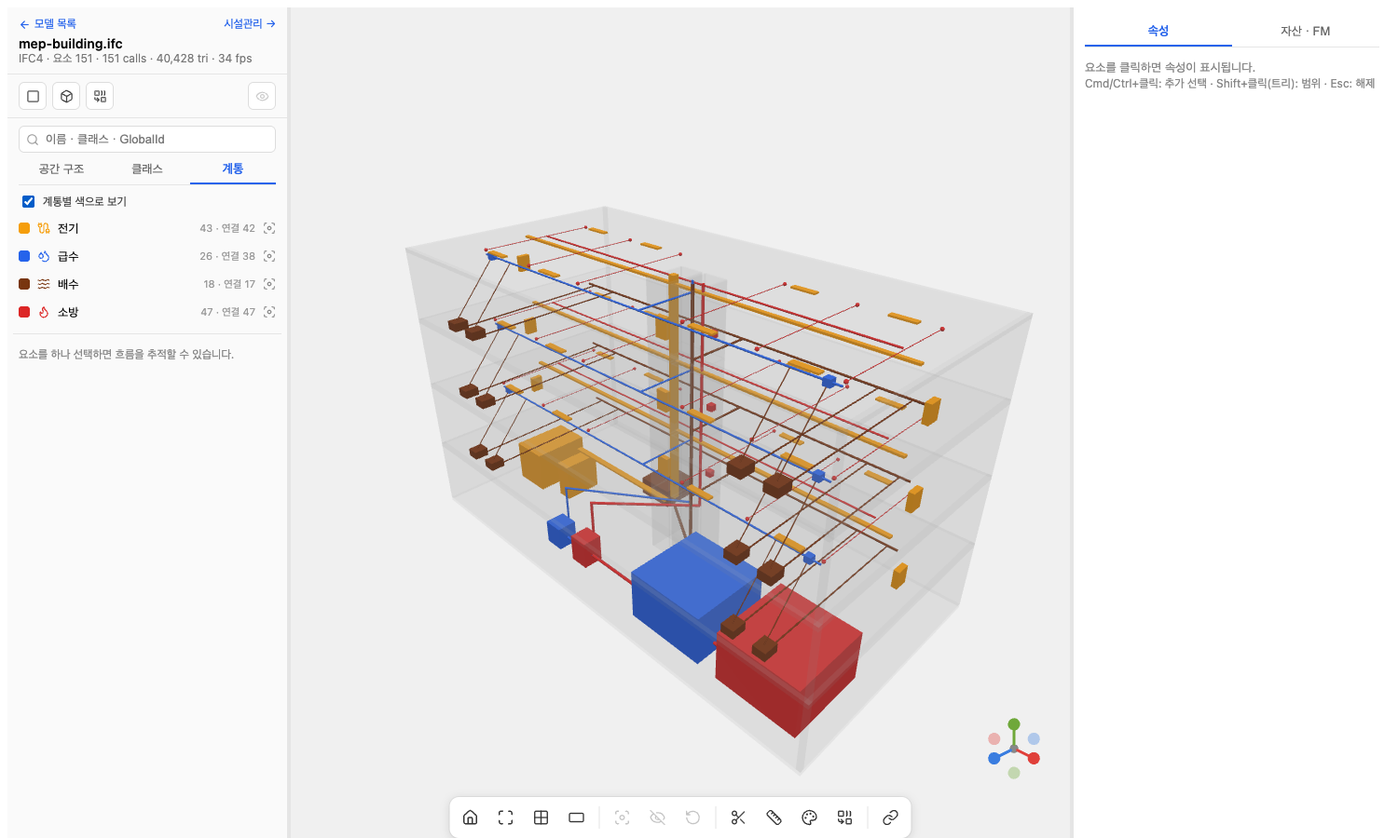
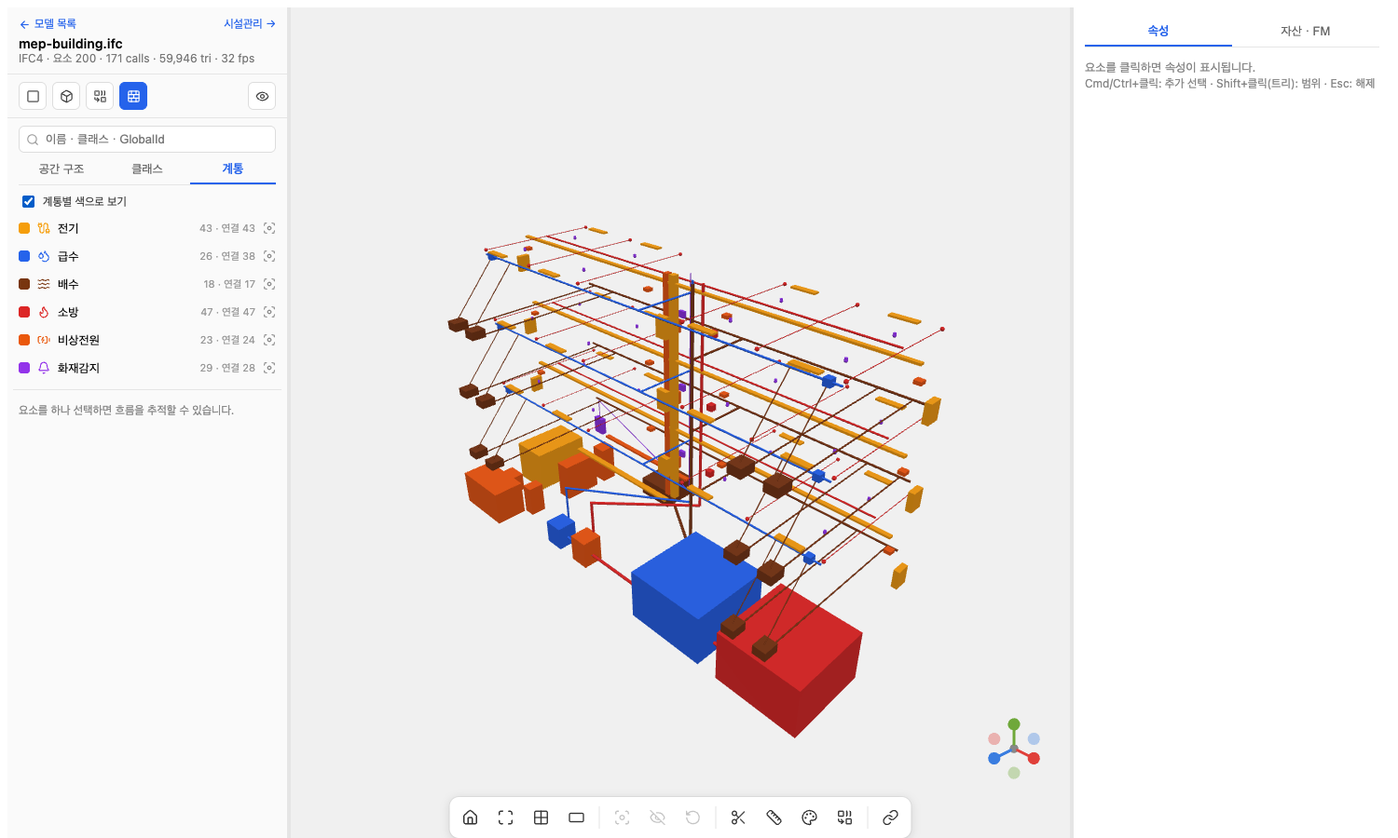
M6 확장: 화재감지 계통(감지기→중계기→수신기, SIGNAL) · 비상전원(발전기→ATS→EMDB→비상조명·소화펌프·수신기) · Pset_BimStatus 상태(ALARM/FAULT 예시), 방재실, 뷰어 구조체 숨김 토글·상태 의미색·신호 계통 라벨

diff --git a/web/src/viewer/SystemPanel.tsx b/web/src/viewer/SystemPanel.tsx
@@ -1,10 +1,11 @@
 import { useEffect, useMemo, useState } from 'react'
-import { ArrowDownToLine, ArrowUpToLine, Cable, Droplets, Flame, Focus, Waves, X, type LucideIcon } from 'lucide-react'
+import { ArrowDownToLine, ArrowUpToLine, BatteryCharging, Bell, Cable, Droplets, Flame, Focus, Waves, X, type LucideIcon } from 'lucide-react'
 import { api, type Route, type System, type SystemMember } from '../api'
 
 /** 계통별 색 (ColorPanel 팔레트와 별개로 의미색 고정) */
-export const SYSTEM_COLOR: Record<string, number> = { ELECTRICAL: 0xf59e0b, DOMESTICCOLDWATER: 0x2563eb, WASTEWATER: 0x78350f, FIREPROTECTION: 0xdc2626 }
-const SYSTEM_ICON: Record<string, LucideIcon> = { ELECTRICAL: Cable, DOMESTICCOLDWATER: Droplets, WASTEWATER: Waves, FIREPROTECTION: Flame }
+export const SYSTEM_COLOR: Record<string, number> = { ELECTRICAL: 0xf59e0b, DOMESTICCOLDWATER: 0x2563eb, WASTEWATER: 0x78350f, FIREPROTECTION: 0xdc2626, SIGNAL: 0x9333ea, 비상전원: 0xea580c, 화재감지: 0x9333ea }
+export const systemColor = (s: { name: string; predefinedType: string | null }) => SYSTEM_COLOR[s.name] ?? SYSTEM_COLOR[s.predefinedType ?? ''] ?? 0x888888
+const SYSTEM_ICON: Record<string, LucideIcon> = { ELECTRICAL: Cable, DOMESTICCOLDWATER: Droplets, WASTEWATER: Waves, FIREPROTECTION: Flame, SIGNAL: Bell, 비상전원: BatteryCharging, 화재감지: Bell }
 const hex = (n: number) => '#' + n.toString(16).padStart(6, '0')
 
 /** 좌측 "계통" 탭: 계통 목록(색·멤버 수·솔로), 선택 요소의 상류/하류 추적 */
@@ -25,6 +26,7 @@ export default function SystemPanel({ modelId, selection, members, setMembers, r
 
   const gid = selection.length === 1 ? selection[0] : undefined
   const inSystems = useMemo(() => systems.filter(s => (members.get(s.id) ?? []).some(m => m.globalId === gid)), [systems, members, gid])
+  const signal = inSystems.length > 0 && inSystems.every(s => s.predefinedType === 'SIGNAL')
   const trace = (dir: 'up' | 'down') => { if (!gid) return; setBusy(true); api(`/models/${modelId}/elements/${encodeURIComponent(gid)}/route?dir=${dir}`).then(setRoute).finally(() => setBusy(false)) }
 
   if (!systems.length) return <p style={{ color: '#888', padding: 8 }}>이 모델에는 계통(IfcDistributionSystem) 정보가 없습니다.<br /><span style={{ fontSize: 12 }}>samples/mep-building.ifc 로 확인할 수 있습니다.</span></p>
@@ -32,7 +34,7 @@ export default function SystemPanel({ modelId, selection, members, setMembers, r
     <div style={{ padding: '4px 6px' }}>
       <label style={{ display: 'flex', alignItems: 'center', gap: 6, padding: '4px 6px', fontSize: 12, color: '#444' }}>
         <input type="checkbox" checked={colorMode} onChange={e => setColorMode(e.target.checked)} /> 계통별 색으로 보기</label>
-      {systems.map(s => { const Icon = SYSTEM_ICON[s.predefinedType ?? ''] ?? Cable, c = SYSTEM_COLOR[s.predefinedType ?? ''] ?? 0x888888; return (
+      {systems.map(s => { const Icon = SYSTEM_ICON[s.name] ?? SYSTEM_ICON[s.predefinedType ?? ''] ?? Cable, c = systemColor(s); return (
         <div key={s.id} style={{ display: 'flex', alignItems: 'center', gap: 8, height: 30, padding: '0 6px', borderRadius: 5 }}>
           <span style={{ width: 12, height: 12, borderRadius: 3, background: hex(c), flexShrink: 0 }} />
           <Icon size={14} style={{ color: hex(c) }} />
@@ -46,17 +48,18 @@ export default function SystemPanel({ modelId, selection, members, setMembers, r
       {gid && <>
         <div style={{ fontSize: 12, color: '#666', padding: '0 6px 6px' }}>선택 요소 계통: {inSystems.length ? inSystems.map(s => s.name).join(', ') : '없음'}</div>
         <div style={{ display: 'flex', gap: 6, padding: '0 6px' }}>
-          <button disabled={!inSystems.length || busy} onClick={() => trace('up')} style={btn}><ArrowUpToLine size={13} /> 상류 (원천까지)</button>
-          <button disabled={!inSystems.length || busy} onClick={() => trace('down')} style={btn}><ArrowDownToLine size={13} /> 하류 (말단까지)</button>
+          {/* 신호 계통(화재감지)은 흐름이 감지기 → 수신기 라 라벨을 바꾼다 */}
+          <button disabled={!inSystems.length || busy} onClick={() => trace('up')} style={btn}><ArrowUpToLine size={13} /> {signal ? '감지기 쪽' : '상류 (원천까지)'}</button>
+          <button disabled={!inSystems.length || busy} onClick={() => trace('down')} style={btn}><ArrowDownToLine size={13} /> {signal ? '수신기까지' : '하류 (말단까지)'}</button>
         </div>
       </>}
       {route && <div style={{ marginTop: 8, padding: 8, background: '#f5f5f5', borderRadius: 8 }}>
         <div style={{ display: 'flex', alignItems: 'center', gap: 6, marginBottom: 4 }}>
-          <b style={{ flex: 1 }}>{route.direction === 'up' ? '상류 경로' : '하류 범위'} · {route.nodes.length}개</b>
+          <b style={{ flex: 1 }}>{route.direction === 'up' ? (signal ? '감지기 쪽' : '상류 경로') : (signal ? '수신기까지 경로' : '하류 범위')} · {route.nodes.length}개</b>
           <span title="경로만 보기" onClick={() => onSolo(`${route.direction === 'up' ? '상류' : '하류'} 경로`, route.nodes.map(n => n.globalId), 'route')} style={{ cursor: 'pointer', color: '#2563eb', display: 'grid', placeItems: 'center' }}><Focus size={14} /></span>
           <X size={14} style={{ cursor: 'pointer', color: '#888' }} onClick={() => setRoute(undefined)} />
         </div>
-        {route.direction === 'up'
+        {route.direction === 'up' || route.nodes.length <= 12
           ? route.nodes.map(n => <RouteRow key={n.globalId} n={n} onClick={() => onSelect([n.globalId])} />)
           : Object.entries(groupBy(route.nodes, n => n.ifcClass)).map(([cls, ns]) => <div key={cls} style={{ display: 'flex', gap: 6, fontSize: 12, padding: '2px 0', cursor: 'pointer' }} onClick={() => onSelect(ns.map(n => n.globalId))}>
               <span style={{ flex: 1 }}>{cls.replace('Ifc', '')}</span><span style={{ color: '#888' }}>{ns.length}</span></div>)}

diff --git a/web/src/viewer/Viewer.tsx b/web/src/viewer/Viewer.tsx
@@ -3,7 +3,7 @@ import type React from 'react'
 import { Group, Panel, Separator } from 'react-resizable-panels'
 import { Check, Combine, Copy, Eye, Palette, Ruler, Trash2, X, XCircle, EyeOff, Focus, Grid2x2, Home, Link, Maximize, RectangleHorizontal, RotateCcw, Scissors, type LucideIcon } from 'lucide-react'
 import { api, type Asset, type ElementDetail, type ElementRow, type Model, type Route, type SpatialNode, type SystemMember, type Viewpoint, type WorkOrder } from '../api'
-import SystemPanel, { SYSTEM_COLOR } from './SystemPanel'
+import SystemPanel, { systemColor } from './SystemPanel'
 import { StatusBadge, day } from './FmPanel'
 import FmPanel from './FmPanel'
 import { Scene3D, type Kind, type Stats, type View } from './scene'
@@ -37,7 +37,7 @@ export default function Viewer({ modelId }: { modelId: string }) {
   const [sysMembers, setSysMembers] = useState<Map<number, SystemMember[]>>(new Map())
   const [sysColor, setSysColor] = useState(false)     // 계통별 색
   const [route, setRoute] = useState<Route>()          // 추적 결과
-  const [systemsMeta, setSystemsMeta] = useState<{ id: number; predefinedType: string | null }[]>([])
+  const [systemsMeta, setSystemsMeta] = useState<{ id: number; name: string; predefinedType: string | null }[]>([])
   useEffect(() => { api(`/models/${modelId}/systems`).then(setSystemsMeta).catch(() => setSystemsMeta([])) }, [modelId])
   // 계통별 색: 멤버 → 계통 색. 경로 추적 중이면 경로만 진하게, 나머지 회색 (setColors 의 기본 회색)
   useEffect(() => {
@@ -45,7 +45,7 @@ export default function Viewer({ modelId }: { modelId: string }) {
     if (route) { const m = new Map<string, number>(); for (const n of route.nodes) m.set(n.globalId, n.depth === 0 ? 0xffaa00 : route.direction === 'up' ? 0x2563eb : 0x16a34a); s.setColors(m, true); return }
     if (!sysColor || colorMode) { if (!colorMode) s.setColors(undefined); return }
     const m = new Map<string, number>()
-    for (const sm of systemsMeta) for (const e of sysMembers.get(sm.id) ?? []) m.set(e.globalId, SYSTEM_COLOR[sm.predefinedType ?? ''] ?? 0x888888)
+    for (const sm of systemsMeta) for (const e of sysMembers.get(sm.id) ?? []) m.set(e.globalId, systemColor(sm))
     s.setColors(m, true)   // 구조체는 반투명 — 계통이 건물 안에서 보이게
   }, [sysColor, sysMembers, systemsMeta, route, colorMode, bounds])
   const [menu, setMenu] = useState<{ x: number; y: number }>()

diff --git a/web/src/viewer/LeftPanel.tsx b/web/src/viewer/LeftPanel.tsx
@@ -1,6 +1,6 @@
 import { useMemo, useState, type ReactNode } from 'react'
 import type React from 'react'
-import { ArrowLeft, Box, Building2, ChevronDown, ChevronRight, Combine, DoorOpen, Eye, EyeOff, Focus, Layers, LayoutGrid, MapPin, Search, Sofa, Square, Tag, Wind, type LucideIcon } from 'lucide-react'
+import { ArrowLeft, Box, Building2, BrickWall, ChevronDown, ChevronRight, Combine, DoorOpen, Eye, EyeOff, Focus, Layers, LayoutGrid, MapPin, Search, Sofa, Square, Tag, Wind, type LucideIcon } from 'lucide-react'
 import type { ElementRow, Model, SpatialNode } from '../api'
 import type { Stats } from './scene'
 
@@ -12,6 +12,7 @@ export type SelectMode = 'set' | 'toggle' | 'range'
 export type Hidden = { nodes: Set<number>; classes: Set<string>; gids: Set<string>; solo?: { key: string; label: string; gids: Set<string> } }
 export type Opts = { openings: boolean; spaces: boolean; merged: boolean }
 
+const STRUCT = ['IfcWall', 'IfcWallStandardCase', 'IfcSlab', 'IfcRoof', 'IfcCovering', 'IfcCurtainWall']   // 구조체 숨김 토글 대상
 const CLASS_ICON: [RegExp, LucideIcon][] = [[/Door/, DoorOpen], [/Window/, LayoutGrid], [/Furnish|Furniture/, Sofa], [/Wall/, Square], [/Slab|Roof|Covering/, Layers], [/Flow|Duct|Pipe|Terminal/, Wind], [/Site/, MapPin], [/Building$/, Building2], [/Storey/, Layers], [/Space/, Box]]
 export const classIcon = (c: string) => CLASS_ICON.find(([re]) => re.test(c))?.[1] ?? Tag
 
@@ -110,6 +111,7 @@ export default function LeftPanel({ model, stats, spatial, elements, hidden, set
         <Toggle icon={Square} label="Opening (창·문 구멍)" on={opts.openings} onClick={() => setOpts(o => ({ ...o, openings: !o.openings }))} />
         <Toggle icon={Box} label="Space 반투명" on={opts.spaces} onClick={() => setOpts(o => ({ ...o, spaces: !o.spaces }))} />
         <Toggle icon={Combine} label="재질별 병합" on={opts.merged} onClick={() => setOpts(o => ({ ...o, merged: !o.merged }))} />
+        <Toggle icon={BrickWall} label="구조체 숨김 (벽·슬래브·지붕)" on={STRUCT.every(c => hidden.classes.has(c))} onClick={() => { const h = clone(); const on = STRUCT.every(c => h.classes.has(c)); for (const c of STRUCT) on ? h.classes.delete(c) : h.classes.add(c); setHidden(h) }} />
         <span style={{ flex: 1 }} />
         <Toggle icon={Eye} label="숨긴 것 모두 표시" on={false} disabled={!anyHidden} onClick={allVisible} />
       </div>

diff --git a/web/src/viewer/ColorPanel.tsx b/web/src/viewer/ColorPanel.tsx
@@ -6,6 +6,8 @@ import { api, type ElementRow, type SpatialNode } from '../api'
 export const PALETTE = [0x4e79a7, 0xf28e2b, 0xe15759, 0x76b7b2, 0x59a14f, 0xedc948, 0xb07aa1, 0xff9da7, 0x9c755f, 0xbab0ac, 0x1b9e77, 0x7570b3]
 const hex = (n: number) => '#' + n.toString(16).padStart(6, '0')
 const BUILTIN = ['ifcClass', 'storey']
+/** 상태값은 의미색 고정 (팔레트 순번이 아니라) */
+const STATUS_COLOR: Record<string, number> = { NORMAL: 0x16a34a, OK: 0x16a34a, STANDBY: 0x6b7280, ALARM: 0xdc2626, FAULT: 0xf59e0b, TROUBLE: 0xf59e0b, OFF: 0x9ca3af, UTILITY: 0x2563eb, GENERATOR: 0xea580c }
 
 export type Legend = { value: string; color: number; gids: string[] }[]
 
@@ -34,7 +36,7 @@ export default function ColorPanel({ modelId, elements, spatial, onChange, onSol
     if (!values) return []
     const groups = new Map<string, string[]>()
     for (const v of values) (groups.get(v.value) ?? groups.set(v.value, []).get(v.value)!).push(v.globalId)
-    return [...groups].sort((a, b) => b[1].length - a[1].length).map(([value, gids], i) => ({ value, gids, color: PALETTE[i % PALETTE.length] }))
+    return [...groups].sort((a, b) => b[1].length - a[1].length).map(([value, gids], i) => ({ value, gids, color: STATUS_COLOR[value.toUpperCase()] ?? PALETTE[i % PALETTE.length] }))
   }, [values])
   useEffect(() => {
     const m = new Map<string, number>(); for (const l of legend) for (const g of l.gids) m.set(g, l.color)

diff --git a/samples/gen/gen_mep.py b/samples/gen/gen_mep.py
@@ -69,6 +69,7 @@ def system(name, ptype):
     systems[name] = s
     return s
 S_EL, S_WS, S_WW, S_FP = system("전기", "ELECTRICAL"), system("급수", "DOMESTICCOLDWATER"), system("배수", "WASTEWATER"), system("소방", "FIREPROTECTION")
+S_EM, S_FA = system("비상전원", "ELECTRICAL"), system("화재감지", "SIGNAL")
 
 def link(up, down, sysname):
     """상류 → 하류 흐름 연결 + 양쪽 계통 소속"""
@@ -80,7 +81,7 @@ def link(up, down, sysname):
 ST = {"slab": style("slab", (0.75, 0.75, 0.75)), "wall": style("wall", (0.85, 0.85, 0.82), 0.35), "space": style("space", (0.6, 0.75, 1.0), 0.15),
       "el": style("electrical", (0.95, 0.65, 0.1)), "tray": style("tray", (0.8, 0.5, 0.1)), "light": style("light", (1.0, 0.95, 0.6)),
       "ws": style("water", (0.2, 0.5, 0.95)), "ww": style("waste", (0.45, 0.35, 0.25)), "fp": style("fire", (0.9, 0.2, 0.2)), "tank": style("tank", (0.3, 0.6, 0.8), 0.6),
-      "shaft": style("shaft", (0.5, 0.5, 0.5), 0.3)}
+      "shaft": style("shaft", (0.5, 0.5, 0.5), 0.3), "em": style("emergency", (0.85, 0.3, 0.05)), "fa": style("firealarm", (0.6, 0.2, 0.7)), "gen": style("generator", (0.4, 0.4, 0.45))}
 
 # ---------- 구조: 층·슬래브·외벽·샤프트·구역 ----------
 storeys, spaces = {}, {}
@@ -92,7 +93,7 @@ for name, z in FLOORS:
         make("IfcWall", f"{name} 외벽", [box(x, y, z, w, d, H)], st, ST["wall"])
     for label, (x, y, w, d) in (("EPS", EPS), ("PS", PS)):
         make("IfcWall", f"{name} {label} 샤프트", [box(x, y, z, w, 0.1, H), box(x, y + d, z, w, 0.1, H), box(x, y, z, 0.1, d, H), box(x + w, y, z, 0.1, d, H)], st, ST["shaft"])
-    zones = [("변전실", 0, 0, 6, D), ("펌프실", 6, 0, 5, D), ("수조실", 13.6, 0, W - 13.6, D)] if name == "B1" else [("A", 0, 0, 11, D), ("B", 13.6, 0, W - 13.6, D)]
+    zones = [("변전실", 0, 0, 6, 8), ("방재실", 0, 8, 6, D - 8), ("펌프실", 6, 0, 5, D), ("수조실", 13.6, 0, W - 13.6, D)] if name == "B1" else [("A", 0, 0, 11, D), ("B", 13.6, 0, W - 13.6, D)]
     for zname, x, y, w, d in zones:
         sp = api.root.create_entity(f, ifc_class="IfcSpace", name=f"{name}-{zname}")
         api.geometry.assign_representation(f, product=sp, representation=rep([box(x + 0.2, y + 0.2, z, w - 0.4, d - 0.4, H - 0.3)], ST["space"]))
@@ -112,6 +113,15 @@ link(WT, WP, "급수")
 FT = make("IfcTank", "FT-1 소화수조 40t", [box(19, 1, zb, 4, 4, 2.5)], spaces["B1-수조실"], ST["tank"], {"Pset_TankTypeCommon": {"NominalCapacity": 40.0}}, "STORAGE")
 FP = make("IfcPump", "FP-1 소화펌프", [box(9, 1.5, zb, 1, 1, 1.4)], spaces["B1-펌프실"], ST["fp"], None, "ENDSUCTION")
 link(FT, FP, "소방")
+# ---------- 비상전원: 발전기 → ATS → 비상분전반 ----------
+GEN = make("IfcElectricGenerator", "EG-1 비상발전기 500kW", [box(1, 0.5, zb, 3, 1.6, 1.8), box(1.2, 2.3, zb, 1.0, 1.0, 1.0)], spaces["B1-변전실"], ST["gen"],
+           {"Pset_ElectricGeneratorTypeCommon": {"MaximumPowerOutput": 500000.0}, "Pset_BimStatus": {"Status": "STANDBY", "FuelLevel": 82.0, "LastTest": "2026-08-01"}}, "CHP")
+ATS = make("IfcSwitchingDevice", "ATS-1 자동절체개폐기", [box(4, 2.2, zb, 0.6, 0.8, 1.6)], spaces["B1-변전실"], ST["em"], {"Pset_BimStatus": {"Status": "NORMAL", "Source": "UTILITY"}}, "TRANSFERSWITCH")
+EMDB = make("IfcElectricDistributionBoard", "EMDB 비상분전반", [box(4, 7.0, zb, 0.8, 0.8, 2.0)], spaces["B1-변전실"], ST["em"], {"Pset_ElectricalDeviceCommon": {"RatedVoltage": 380.0, "RatedCurrent": 400.0}}, "SWITCHBOARD")
+link(GEN, ATS, "비상전원"); link(MDB, ATS, "비상전원"); link(ATS, EMDB, "비상전원")
+# ---------- 화재감지: 수신기(방재실) ----------
+FACP = make("IfcUnitaryControlElement", "FACP 화재수신기 (P형)", [box(1, 9.5, zb + 0.8, 0.7, 0.3, 1.0)], spaces["B1-방재실"], ST["fa"], {"Pset_BimStatus": {"Status": "NORMAL", "ActiveAlarms": 1, "Faults": 1}}, "ALARMPANEL")
+link(EMDB, FACP, "비상전원"); link(EMDB, FP, "비상전원")   # 소화펌프는 비상전원
 SP = make("IfcTank", "SP-1 집수정", [box(7, 8, zb - 0.2, 2, 2, 1.0)], spaces["B1-펌프실"], ST["ww"], None, "BASIN")
 
 # 지하 수평 배관: 수조 → 펌프 → 샤프트, 펌프실 → 샤프트
@@ -127,6 +137,9 @@ p = make("IfcPipeSegment", "배수 집수관", [pipe([(px, py - 0.3, zb + 0.3), 
 # ---------- 입상 (B1 → 3F) ----------
 top = FLOORS[-1][1] + H
 riser_el = make("IfcCableCarrierSegment", "EPS 입상 트레이", [box(ex - 0.15, ey - 0.15, zb + 2.8, 0.3, 0.3, top - zb - 2.8)], b1, ST["tray"], None, "CABLELADDERSEGMENT"); link(EL_B1, riser_el, "전기")
+riser_em = make("IfcCableCarrierSegment", "EPS 비상 입상 트레이", [box(ex - 0.5, ey - 0.15, zb + 2.8, 0.25, 0.3, top - zb - 2.8)], b1, ST["em"], None, "CABLELADDERSEGMENT")
+t = make("IfcCableCarrierSegment", "B1 비상 트레이", [box(4.8, 7.3, zb + 2.8, ex - 0.5 - 4.8, 0.25, 0.1)], b1, ST["em"], None, "CABLETRAYSEGMENT"); link(EMDB, t, "비상전원"); link(t, riser_em, "비상전원")
+riser_fa = make("IfcCableSegment", "화재감지 간선 (입상)", [pipe([(1.35, 9.65, zb + 1.8), (1.35, 9.65, zb + 3.0), (ex + 0.4, ey + 0.6, zb + 3.0), (ex + 0.4, ey + 0.6, top)], 0.02)], b1, ST["fa"], None, "CABLESEGMENT"); link(riser_fa, FACP, "화재감지")
 riser_ws = make("IfcPipeSegment", "급수 입상관", [pipe([(px - 0.3, py, zb + 3.0), (px - 0.3, py, top)], 0.05)], b1, ST["ws"], None, "RIGIDSEGMENT"); link(WS_B1, riser_ws, "급수")
 riser_fp = make("IfcPipeSegment", "소화 입상관", [pipe([(px + 0.3, py, zb + 3.1), (px + 0.3, py, top)], 0.065)], b1, ST["fp"], None, "RIGIDSEGMENT"); link(FP_B1, riser_fp, "소방")
 riser_ww = make("IfcPipeSegment", "배수 입상관", [pipe([(px, py - 0.3, top), (px, py - 0.3, zb + 0.3)], 0.075)], b1, ST["ww"], None, "RIGIDSEGMENT"); link(riser_ww, WW_B1, "배수")
@@ -136,6 +149,10 @@ for name, z in FLOORS[1:]:
     st = storeys[name]
     LP = make("IfcElectricDistributionBoard", f"LP-{name} 층 분전반", [box(EPS[0] + 0.2, EPS[1] + 0.3, z + 0.8, 0.6, 0.25, 1.0)], st, ST["el"], {"Pset_ElectricalDeviceCommon": {"RatedVoltage": 380.0, "RatedCurrent": 250.0}}, "DISTRIBUTIONBOARD")
     link(riser_el, LP, "전기")
+    ELP = make("IfcElectricDistributionBoard", f"ELP-{name} 층 비상분전반", [box(EPS[0] + 0.2, EPS[1] + 1.2, z + 0.8, 0.4, 0.25, 0.6)], st, ST["em"], {"Pset_ElectricalDeviceCommon": {"RatedVoltage": 220.0, "RatedCurrent": 63.0}}, "DISTRIBUTIONBOARD")
+    link(riser_em, ELP, "비상전원")
+    RPT = make("IfcUnitaryControlElement", f"RPT-{name} 층 중계기", [box(EPS[0] + 0.7, EPS[1] + 1.2, z + 1.6, 0.3, 0.15, 0.3)], st, ST["fa"], {"Pset_BimStatus": {"Status": "NORMAL"}}, "ALARMPANEL")
+    link(RPT, riser_fa, "화재감지")
     AV = make("IfcValve", f"AV-{name} 알람밸브", [box(px + 0.15, py + 0.5, z + 1.0, 0.3, 0.3, 0.3)], st, ST["fp"], None, "ISOLATION")
     link(riser_fp, AV, "소방")
     WSB = make("IfcPipeSegment", f"{name} 급수 분기관", [pipe([(px - 0.3, py, z + 3.0), (px - 0.3, 3.0, z + 3.0), (2, 3.0, z + 3.0)], 0.04), pipe([(px - 0.3, 3.0, z + 3.0), (W - 2, 3.0, z + 3.0)], 0.04)], st, ST["ws"], None, "RIGIDSEGMENT")
@@ -155,6 +172,17 @@ for name, z in FLOORS[1:]:
         for i, (lx, ly) in enumerate([(x0 + 3, 3), (x0 + 3, 9), (x0 + 7, 3), (x0 + 7, 9)] if zname == "A" else [(x0 + 2.5, 3), (x0 + 2.5, 9), (x0 + 7, 3), (x0 + 7, 9)]):
             L = make("IfcLightFixture", f"{name}-{zname} 조명 {i + 1}", [box(lx - 0.6, ly - 0.15, z + H - 0.35, 1.2, 0.3, 0.08)], sp, ST["light"], None, "POINTSOURCE")
             link(ZP, L, "전기")
+        # 비상전원: 층 비상분전반 → 비상조명(피난유도등) 2개
+        for i, (lx, ly) in enumerate([(x0 + 1.0, 6.0), (x1 - 1.0, 6.0)] if zname == "A" else [(x0 + 1.0, 6.0), (x1 - 1.0, 6.0)]):
+            EL = make("IfcLightFixture", f"{name}-{zname} 비상조명 {i + 1}", [box(lx - 0.15, ly - 0.15, z + 2.4, 0.3, 0.3, 0.15)], sp, ST["em"], {"Pset_BimStatus": {"Status": "NORMAL", "BatteryLevel": 100.0}}, "EMERGENCY")
+            link(ELP, EL, "비상전원")
+        # 화재감지: 중계기 ← 연기감지기 3 + 열감지기 1 (신호는 감지기 → 중계기 → 수신기 방향 = 상류가 수신기)
+        det_status = {("2F", "B", 0): ("ALARM", "2026-08-28T13:42"), ("3F", "A", 3): ("FAULT", None)}
+        for i, (dx, dy, kind) in enumerate([(x0 + 3, 4.5, "SMOKE"), (x0 + 3, 7.5, "SMOKE"), (x0 + 7.5, 4.5, "SMOKE"), (x0 + 7.5, 7.5, "HEAT")] if zname == "A" else [(x0 + 2.5, 4.5, "SMOKE"), (x0 + 2.5, 7.5, "SMOKE"), (x0 + 7.5, 4.5, "SMOKE"), (x0 + 7.5, 7.5, "HEAT")]):
+            status, at = det_status.get((name, zname, i), ("NORMAL", None))
+            DET = make("IfcSensor", f"{name}-{zname} {'연기' if kind == 'SMOKE' else '열'}감지기 {i + 1}", [pipe([(dx, dy, z + H - 0.35), (dx, dy, z + H - 0.3)], 0.06), sb.sphere(radius=0.07, center=V(dx, dy, z + H - 0.4))], sp, ST["fa"],
+                       {"Pset_BimStatus": {"Status": status, "AlarmAt": at or "", "LastTest": "2026-07-15"}}, "SMOKESENSOR" if kind == "SMOKE" else "HEATSENSOR")
+            link(DET, RPT, "화재감지")
         # 급수: 분기관 → 구역 밸브 → 위생기구 2개, 배수: 위생기구 → 횡주관
         vx = x0 + 2.5 if zname == "A" else x1 - 2.5
         VL = make("IfcValve", f"V-{name}-{zname} 구역 급수밸브", [box(vx - 0.15, 2.85, z + 2.85, 0.3, 0.3, 0.3)], sp, ST["ws"], None, "ISOLATION")
@@ -169,5 +197,5 @@ for name, z in FLOORS[1:]:
             link(FPB, SPR, "소방")
 
 f.write(sys.argv[1] if len(sys.argv) > 1 else "mep-building.ifc")
-n = {c: len(f.by_type(c)) for c in ("IfcElement", "IfcSpace", "IfcDistributionSystem", "IfcRelConnectsElements")}
+n = {c: len(f.by_type(c)) for c in ("IfcElement", "IfcSpace", "IfcDistributionSystem", "IfcRelConnectsElements", "IfcSensor")}
 print("written:", n)

diff --git a/docs/study/mep-systems.md b/docs/study/mep-systems.md
@@ -20,6 +20,10 @@
 | 급수 | DOMESTICCOLDWATER | 저수조 → 펌프 → 입상관 → 층 분기관 → 구역 밸브 → 위생기구 | IfcTank, IfcPump, IfcPipeSegment, IfcValve, IfcSanitaryTerminal |
 | 배수 | WASTEWATER | 위생기구 → 횡주관 → 입상관 → 집수정 | (역방향) |
 | 소방 | FIREPROTECTION | 소화수조 → 소화펌프 → 입상관 → 층 알람밸브 → 주관 → 스프링클러 | IfcFireSuppressionTerminal, IfcValve(알람밸브) |
+| 비상전원 | ELECTRICAL | 비상발전기 → ATS(한전/발전 절체, MDB 도 입력) → 비상분전반 EMDB → 입상 → 층 비상분전반 → 비상조명 · 소화펌프 · 화재수신기 | IfcElectricGenerator, IfcSwitchingDevice(TRANSFERSWITCH), IfcLightFixture(EMERGENCY) |
+| 화재감지 | SIGNAL | **감지기 → 층 중계기 → 간선 → 화재수신기(방재실)** — 신호 방향이라 수신기가 "하류" | IfcSensor(SMOKESENSOR/HEATSENSOR), IfcUnitaryControlElement(ALARMPANEL), IfcCableSegment |
+
+**상태**: 감지기·발전기·ATS·비상조명·수신기에 `Pset_BimStatus`(Status NORMAL/ALARM/FAULT/STANDBY, AlarmAt, LastTest, FuelLevel, BatteryLevel, Source UTILITY/GENERATOR). 표준 Pset 에 "현재 상태" 자리는 없어서(IFC 는 설계 정보) 프로젝트 Pset 으로 뒀다. 실제 운영에선 BMS/수신기 연동값이 여기로 들어오고, 뷰어 "속성별 색상 → Pset_BimStatus.Status" 가 곧 상태판(ALARM 빨강·FAULT 주황·NORMAL 초록). 예시 데이터: 2F-B 연기감지기 1 = ALARM, 3F-A 열감지기 = FAULT.
 
 ## IFC 에서 계통과 흐름을 담는 자리
 
@@ -48,7 +52,8 @@ SELECT DISTINCT ON (id) ... ORDER BY id, depth
 
 ## 뷰어에서
 
-- "계통별 색": 계통 멤버는 의미색(전기 주황·급수 파랑·배수 갈색·소방 빨강), 구조체는 반투명 — 건물 안의 배관·트레이가 보인다.
+- "계통별 색": 계통 멤버는 의미색(전기 주황·급수 파랑·배수 갈색·소방 빨강·비상전원 진주황·화재감지 보라), 구조체는 반투명 — 건물 안의 배관·트레이가 보인다. 표시 옵션 "구조체 숨김"(벽·슬래브·지붕) 으로 아예 뺄 수도 있다.
+- 신호 계통(SIGNAL)은 버튼 라벨이 "감지기 쪽 / 수신기까지" 로 바뀐다 — 데이터는 같은 `connection`, 의미만 다르다.
 - 요소 하나 선택 → 상류/하류. 경로는 파랑(상류)/초록(하류), 선택 요소 주황, 나머지 반투명. "경로만 보기" 는 솔로 모델 재사용.
 - 층·구역 필터(트리 눈/솔로)와 조합: "2F-B 구역 소방" = 트리에서 2F-B 솔로 + 계통 색.
 
@@ -57,6 +62,8 @@ SELECT DISTINCT ON (id) ... ORDER BY id, depth
 1. 3층 B구역 조명 고장 신고 → 조명 선택 → 상류 → `LP-3F-B 구역 분전반` 부터 확인, 그래도 안 되면 `LP-3F` → `MDB`.
 2. 급수 펌프 교체 예정 → 펌프 선택 → 하류 → 영향 범위 = 전 층 위생기구 26개 → 작업지시에 첨부(뷰포인트 저장).
 3. 1층 A구역 스프링클러 오작동 → 상류 → `AV-1F 알람밸브` 잠그면 1층만 차단, 그 위 `소화 입상관` 잠그면 전 층.
+4. 수신기 ALARM 1건 → 상태 색상 모드로 빨간 감지기 찾기(2F-B) → 수신기까지 경로로 중계기 확인 → 작업지시.
+5. 정전 → ATS `Source` 가 GENERATOR 로 바뀌면 비상전원 계통 하류(비상조명·소화펌프·수신기)만 살아있음을 뷰어에서 확인, 발전기 `FuelLevel` 로 잔여 운전 시간.
 
 ## 참고
 

diff --git a/docs/04-milestones.md b/docs/04-milestones.md
@@ -9,7 +9,7 @@
 | **M2** 3D 뷰어 ✅ 2026-08-28 | Three.js glb 로드, 요소 클릭 → Pset 패널, 층별 필터, 공간 트리, 요소 검색 | `ifc-spatial-structure.md` — Site/Building/Storey/Space, GlobalId, Pset/Qto · `webgl-performance.md` — 인스턴싱, 병합, 프러스텀 컬링 |
 | **M3** GIS ✅ 2026-08-28 | 지리참조 추출 → footprint → `/api/map/footprints` → MapLibre 표시. 지리참조 없는 모델은 수동 핀 | `ifc-georeferencing.md` — IfcMapConversion, IfcSite RefLat/Long, EPSG:5186↔4326, LoGeoRef 등급 · `bim-gis-integration.md` — CityGML/CityJSON, LOD 개념 |
 | **M4** FMS ✅ 2026-08-28 | 자산 등록(요소 연결) → 점검 → 작업지시. 작업지시에서 뷰어 열면 요소 하이라이트 + viewpoint 복원 | `cobie-bcf.md` — COBie 시트 구조, BCF 3.0 topic/viewpoint · `fm-domain.md` — 시설관리 업무 흐름 |
-| **M6** 설비 계통 ✅ 2026-08-28 | 가상 건물 IFC 생성(4계통·흐름 연결·구역), 계통/연결 추출, 재귀 CTE 경로 추적 API, 뷰어 계통 탭(계통별 색·솔로·상류/하류 추적) | `mep-systems.md` — IfcDistributionSystem, 포트 vs 요소 연결, 그래프 추적 |
+| **M6** 설비 계통 ✅ 2026-08-28 | 가상 건물 IFC 생성(6계통 — 전기·급수·배수·소방·비상전원·화재감지, 흐름 연결, 구역, 상태 Pset), 계통/연결 추출, 재귀 CTE 경로 추적 API, 뷰어 계통 탭(계통별 색·솔로·상류/하류 추적) | `mep-systems.md` — IfcDistributionSystem, 포트 vs 요소 연결, 그래프 추적 |
 | **M5** 선택 (보류) | IDS 검증 + 결과 색상 표시 / COBie 내보내기 / 3D Tiles + Cesium 탭 / GitHub Actions(빌드 → Trivy) | `ids.md`, `ifc5-outlook.md`, `ci-trivy.md` |
 
 ## 순서 원칙

diff --git a/README.md b/README.md
@@ -66,8 +66,9 @@ curl -X POST localhost:8080/api/models/<id>/retry                               
 
 ![M6 계통별 색](docs/images/m6-systems.png)
 ![M6 계통 추적](docs/images/m6-route.png)
+![M6 상태](docs/images/m6-status.png)
 
-`samples/mep-building.ifc` — `samples/gen/gen_mep.py` 로 만든 가상 업무동(지하 변전실·펌프실·수조 + 3개 층, 층별 A/B 구역). 전기·급수·배수·소방 4계통을 IfcDistributionSystem 과 흐름 연결로 넣었다. 뷰어 "계통" 탭에서 계통별 색, 요소 선택 → **상류(원천까지) / 하류(말단까지)** 추적.
+`samples/mep-building.ifc` — `samples/gen/gen_mep.py` 로 만든 가상 업무동(지하 변전실·펌프실·수조 + 3개 층, 층별 A/B 구역). 전기·급수·배수·소방·비상전원·화재감지 6계통을 IfcDistributionSystem 과 흐름 연결로 넣었고, 감지기·발전기엔 상태(`Pset_BimStatus`)가 있다. 뷰어 "계통" 탭에서 계통별 색, 요소 선택 → **상류(원천까지) / 하류(말단까지)** 추적.
 
 ### 지도 (M3)
 
